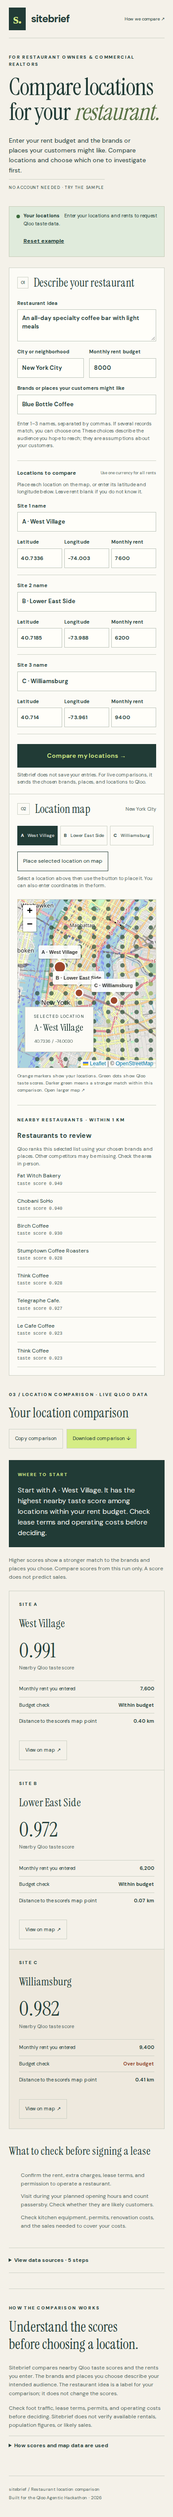
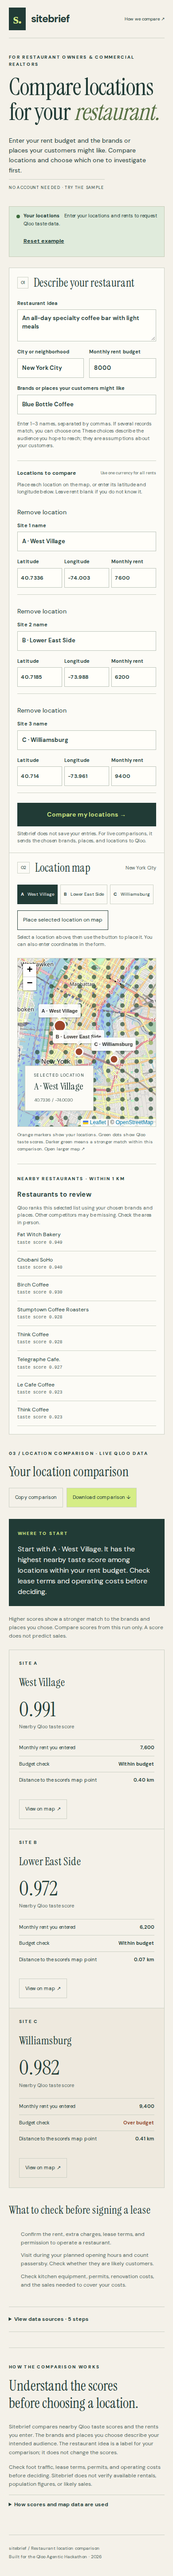
Record verified Sitebrief production acceptance and submission gate

Changed region(s): [[0.0308, 0.0, 0.9538, 0.9945], [0.7385, 0.7459, 0.8923, 0.777]]

diff --git a/docs/VALIDATION.md b/docs/VALIDATION.md
@@ -1,5 +1,15 @@
 # Sitebrief validation — October 21, 2026
 
+## Production acceptance
+
+- Working MVP: https://collab-scout.vercel.app (no account required).
+- PR #4 merged as `1a2362699174d6f87d8ac7788023519947e20c50` on October 21 at 18:13 UTC.
+- Vercel production deployment `dpl_D5eVCrZ8VV7CnpH5ST7hPDkAhrCz` is READY and serves the stable alias.
+- Repeated the entire live browser journey, the two-/three-location UI checks, and real negative cases against the stable production URL. All passed.
+- Live health and agent-tool schema return HTTP 200. The source remains public with a detectable MIT license.
+- Scanned 15 client JavaScript files: the saved server-side Qloo credential is absent. Only .env.example is tracked.
+- These reports test specific requests and browser states, not universal geographic coverage, complete accessibility certification or validated demand.
+
 ## Current release
 
 - Six Jest suites: **53/53 tests passed**. Three new cases reproduce ambiguous choices, explicit ID selection, and forged/stale ID rejection. Synthetic transport tests remain labelled and are separate from real provider acceptance.

diff --git a/docs/JUDGE_CHECKLIST.md b/docs/JUDGE_CHECKLIST.md
@@ -26,7 +26,7 @@
 - [x] Fetch nearby restaurants and verify radius/location semantics against real responses.
 - [x] Complete the hosted live comparison and its export without exposing the key.
 - [x] Test an unsupported area or empty result: no invented score or automatic sample replacement.
-- [ ] Recheck public access and mobile layout on the exact release deployment.
+- [x] Recheck public access and mobile layout on the exact release deployment.
 - [x] Confirm official rules and public MIT source links before final submission.
 - [ ] Resolve Devpost's human security verification and complete the entry.
 - [ ] Save the submission receipt and public project URL; do not create duplicate entries.

diff --git a/docs/RELEASE_REVIEW.md b/docs/RELEASE_REVIEW.md
@@ -19,4 +19,4 @@ Live hosted acceptance proves search, one shared geographic heatmap, nearby rest
 
 Devpost human verification remains the external submission blocker. A published app is not a submitted entry.
 
-Summary: Standards — 0 blocking findings, 1 nonblocking readability observation. Spec — 2 findings fixed; 0 known open functional blockers, subject to final release-deployment verification.
+Summary: Standards — 0 blocking findings, 1 nonblocking readability observation. Spec — 2 findings fixed; 0 known open functional blockers, final production verification passed at https://collab-scout.vercel.app.
